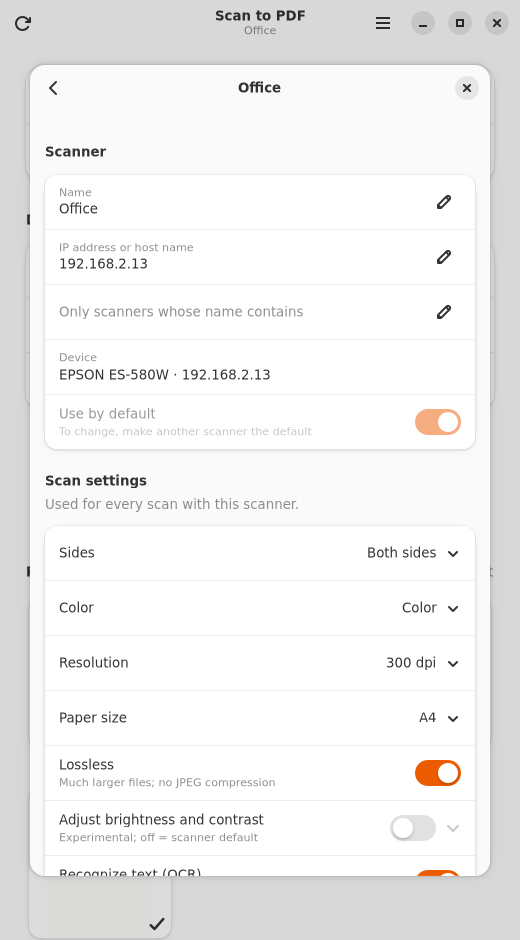
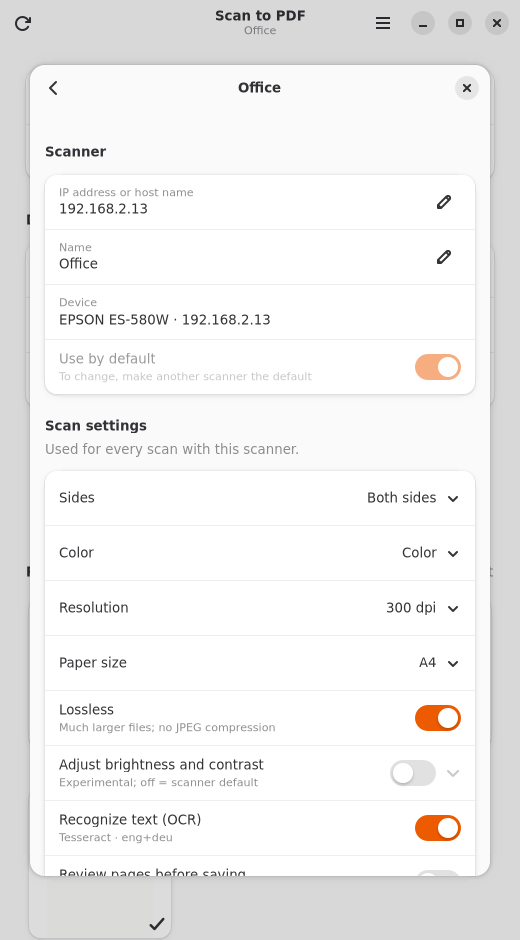
GUI: address first on the scanner page; name filter only without address
The scanner page now starts with "IP address or host name"; the name is
proposed from the scanner found there. "Only scanners whose name
contains" only applies to automatic discovery, so it is shown only while
the address is empty and is not saved for scanners with an address.
Screenshot, README and GTK test updated.

diff --git a/gui/wsdscan_gui.py b/gui/wsdscan_gui.py
@@ -860,10 +860,13 @@ class ScannerPage(Adw.NavigationPage):
         self.name_row.connect("changed", self._name_changed)
         self.host_row = Adw.EntryRow(use_markup=False, title=_("IP address or host name"),
                                      text=values["host"])
-        self.model_row = Adw.EntryRow(use_markup=False, title=_("Only scanners whose name contains"),
-                                      text=values["model"])
+        # The model filter only matters for automatic discovery (no address).
+        self.model_row = Adw.EntryRow(use_markup=False,
+                                      title=_("Without address: only scanners whose name contains"),
+                                      text=values["model"] if not values["host"] else "")
         for entry in (self.host_row, self.model_row):
             entry.connect("changed", lambda *_a: self._schedule_lookup())
+        self.host_row.connect("changed", lambda *_a: self._sync_model_row())
         self.device_row = Adw.ActionRow(use_markup=False, title=_("Device"), css_classes=["property"])
         is_default = name == prefs.default_name or not prefs.profiles
         self.default_row = Adw.SwitchRow(use_markup=False, title=_("Use by default"), active=is_default)
@@ -871,9 +874,11 @@ class ScannerPage(Adw.NavigationPage):
             # There is always one default: choose another scanner to change it.
             self.default_row.set_sensitive(False)
             self.default_row.set_subtitle(_("To change, make another scanner the default"))
-        for widget in (self.name_row, self.host_row, self.model_row, self.device_row,
+        # Address first: the name is proposed from the scanner found there.
+        for widget in (self.host_row, self.model_row, self.name_row, self.device_row,
                        self.default_row):
             ident.add(widget)
+        self._sync_model_row()
 
         connected = name is not None and name == app.config["scanner"] and window.device
         self.settings = ScanSettings(values, window.choices if connected else
@@ -941,11 +946,20 @@ class ScannerPage(Adw.NavigationPage):
         self.name_row.set_text(text)
         self._setting_name = False
 
+    def _sync_model_row(self):
+        self.model_row.set_visible(not self.host_row.get_text().strip())
+
+    def _model_filter(self):
+        """The model filter, if it applies (only without an address)."""
+        if self.host_row.get_text().strip():
+            return ""
+        return self.model_row.get_text().strip()
+
     def _schedule_lookup(self):
         if self._lookup_source:
             GLib.source_remove(self._lookup_source)
             self._lookup_source = 0
-        host, model = self.host_row.get_text().strip(), self.model_row.get_text().strip()
+        host, model = self.host_row.get_text().strip(), self._model_filter()
         if not host and not model:
             self.device_row.set_subtitle(_("No address: found automatically on the network "
                                            "when scanning"))
@@ -988,7 +1002,7 @@ class ScannerPage(Adw.NavigationPage):
     def values(self):
         values = dict(self.settings.values(), **self.ocr_rows.values(),
                       host=self.host_row.get_text().strip(),
-                      model=self.model_row.get_text().strip(),
+                      model=self._model_filter(),
                       outdir=self.folder.folder, filename=self.filename.get_text().strip()
                       or wsdscan.CONFIG_DEFAULTS["filename"])
         if self.follow_documents and values["outdir"] == scanform.documents_dir():

diff --git a/gui/tests/test_gui_gtk.py b/gui/tests/test_gui_gtk.py
@@ -197,6 +197,32 @@ class GtkTest(unittest.TestCase):
             self.assertEqual(app.scanners["EPSON ES-580W"]["host"], fake.host)
             window.close()
 
+    def test_scanner_page_address_first_and_model_filter(self):
+        wsdscan.save_config({"scanner": "A"}, scanners={
+            "A": {"host": "192.0.2.1", "model": "ES-580W"}, "B": {"model": "ADS"}})
+        app = wsdscan_gui.ScanApp()
+        app.register(None)
+        app.activate()
+        window = app.window
+        assert window is not None
+        prefs = wsdscan_gui.PreferencesDialog(window)
+        page = wsdscan_gui.ScannerPage(prefs, "A")
+        group = page.host_row.get_parent()
+        assert group is not None
+        self.assertIs(group.get_first_child(), page.host_row, "address is the first row")
+        # With an address the name filter is pointless: hidden and not saved.
+        self.assertFalse(page.model_row.get_visible())
+        self.assertEqual(page.values()["model"], "")
+        page.host_row.set_text("")
+        self.assertTrue(page.model_row.get_visible())
+        page.model_row.set_text("ES-580W")
+        self.assertEqual(page.values()["model"], "ES-580W")
+        # Without address (found automatically) the filter is shown.
+        page_b = wsdscan_gui.ScannerPage(prefs, "B")
+        self.assertTrue(page_b.model_row.get_visible())
+        self.assertEqual(page_b.model_row.get_text(), "ADS")
+        window.close()
+
     def test_typed_name_is_kept(self):
         with FakeScanner(model="ES-580W") as fake:
             wsdscan.save_config({"scanner": ""}, scanners={})

diff --git a/gui/README.md b/gui/README.md
@@ -121,9 +121,9 @@ Every scanner has **its own settings**. Different scanners can be set up differe
 
 **A scanner's page** has:
 - **Scanner:**
-  - **Name:** editable. While you haven't typed one, the device's name ("EPSON ES-580W") is proposed as soon as the scanner answers.
-  - **IP address or host name:** empty = find it automatically on the network.
-  - **Model filter.**
+  - **IP address or host name** (first): empty = find it automatically on the network.
+  - **Model filter**, only without an address: for automatic discovery, use only scanners whose name contains this text. With an address it isn't shown and isn't saved.
+  - **Name:** editable. While you haven't typed one, the name of the scanner found at the address ("EPSON ES-580W") is proposed.
   - **Device:** what was found at that address.
   - **Use by default.**
 - **Scan settings:** sides, color, resolution, paper size, lossless, brightness/contrast, text recognition on/off, review pages. Once the device has answered, only what it supports is offered.
